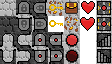
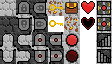
Added empty hearts

Changed region(s): [[0.6964, 0.25, 0.8571, 0.5]]

diff --git a/game/src/main.c b/game/src/main.c
@@ -123,10 +123,12 @@ static void draw_hud() {
     DrawText("Lvl", canvas_left + 4, level_offset + 3, 10, WHITE);
     draw_number((Vector2){CANVAS_SIZE.x - 8, level_offset + 3}, state.level_number);
 
-    // Draw the player health status
-    for (int heart = 0; heart < state.player->health; heart++) {
+    // Draw the player health status 
+    for (int heart = 0; heart < 3; heart++) {
         Rectangle src = {5 * TILE_SIZE, 0, 16, 16};
         Rectangle target = {canvas_left + (TILE_SIZE * heart), health_offset, 16, 16};
+        // draw empty hearts when damaged
+        if (state.player->health < heart) src.y += TILE_SIZE;
         DrawTexturePro(state.item_tex, src, target, Vector2Zero(), 0, WHITE);
     }
 
